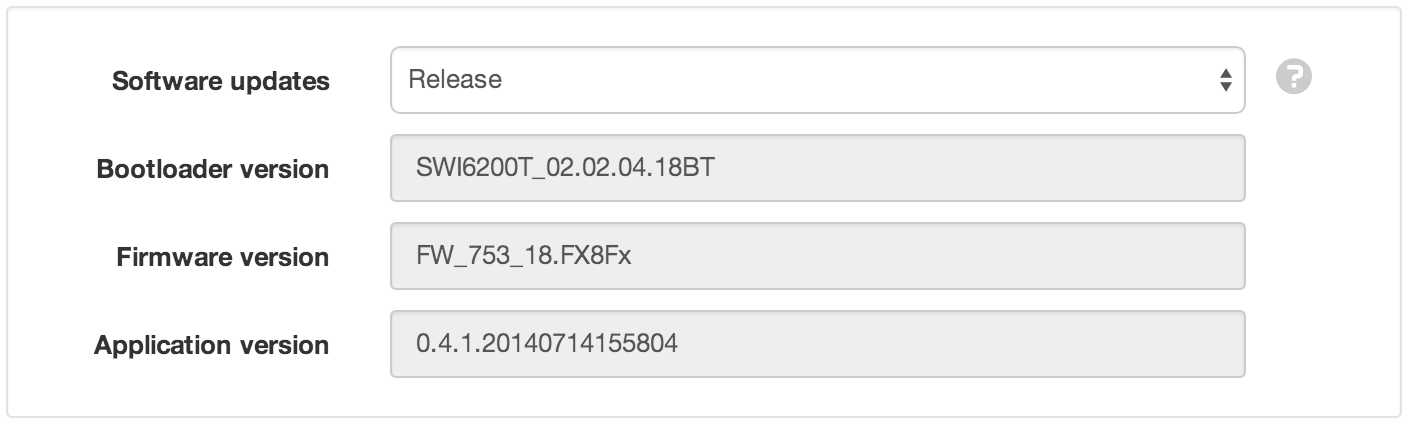
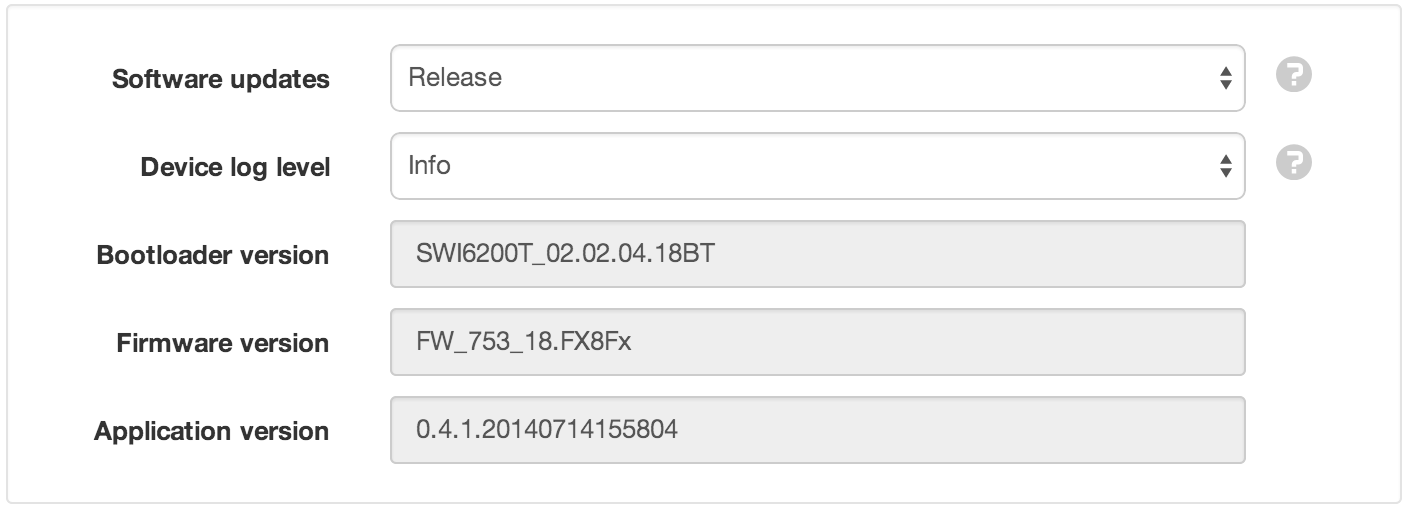
update scout device configuration with logLevel option

diff --git a/source/topics/device_configuration/scout/index.rst b/source/topics/device_configuration/scout/index.rst
@@ -122,6 +122,8 @@ Software updates
 
 	*Do not update automatically* will disable the updates.
 
+Device log level
+	Select the detail level of the device logs. Debug is the lowest level and will record all events. Select a higher level to filter out less important events. Logs are only retrieved on request via the *Retrieve logs* button in the Operation section. 
 
 Operation
 ~~~~~~~~~
